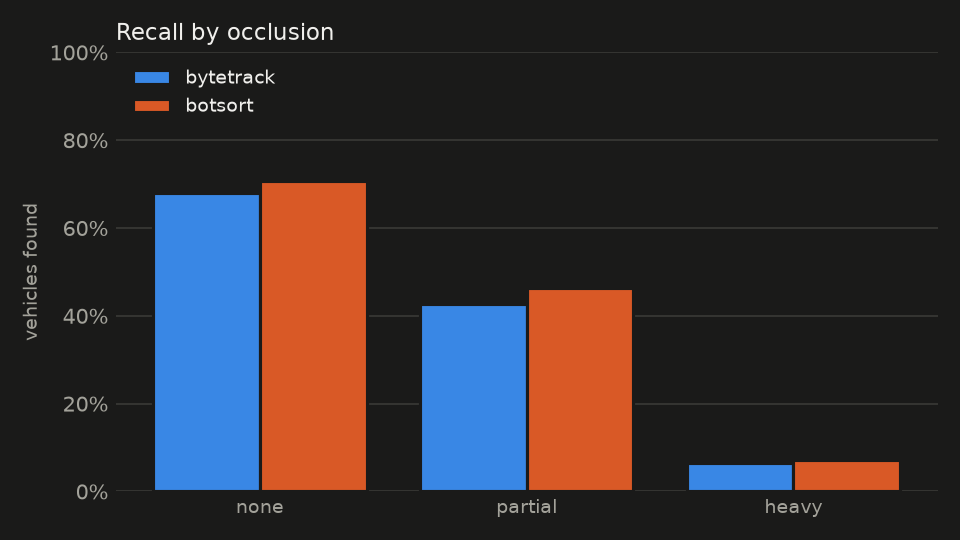
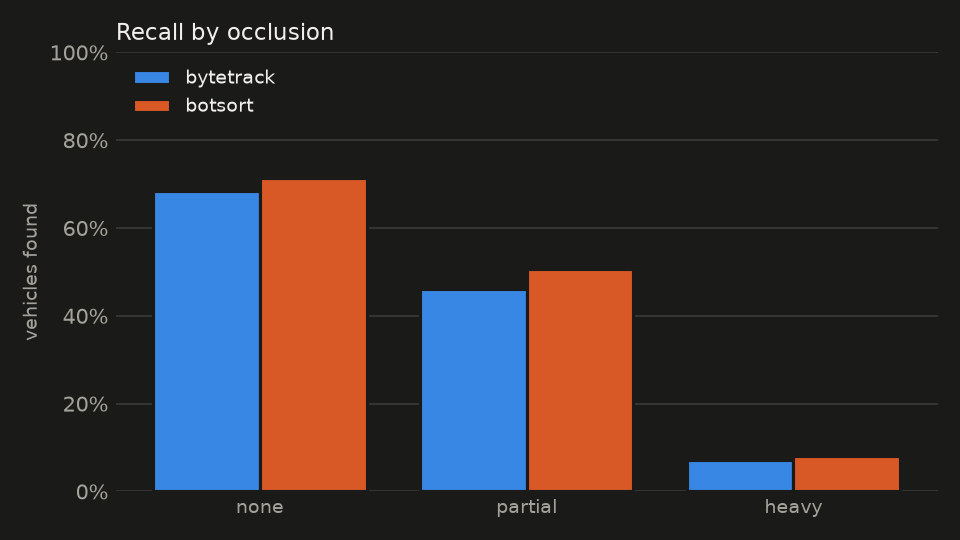
Use detector threshold 0.1 so trackers get low-confidence boxes
run_tracking.py passed conf=0.25 to the detector, which overrides the
Ultralytics tracking default of 0.1. ByteTrack and BoT-SORT both match
boxes between 0.1 and 0.25 in a second step to recover vehicles, so
those boxes were lost before tracking. All runs, charts and README
numbers are updated.

diff --git a/run_tracking.py b/run_tracking.py
@@ -97,7 +97,11 @@ def main() -> None:
     parser.add_argument("--model", default="yolo11s.pt", help="Any ultralytics detection model, downloaded automatically")
     parser.add_argument("--tracker", default="bytetrack.yaml", help="bytetrack.yaml or botsort.yaml")
     parser.add_argument("--imgsz", type=int, default=1280, help="Inference size; drone footage has small objects, so larger helps")
-    parser.add_argument("--conf", type=float, default=0.25)
+    # Keep this at or below track_low_thresh (0.1) in the tracker config. Both trackers match
+    # low-confidence boxes in a second step to recover vehicles; a higher detector threshold
+    # would discard those boxes before the tracker ever sees them. New tracks still need
+    # new_track_thresh (0.25), so this does not flood the output with weak tracks.
+    parser.add_argument("--conf", type=float, default=0.1, help="Detector confidence threshold")
     parser.add_argument("--device", default="auto", help="auto, mps, cpu or a CUDA index")
     parser.add_argument("--max-frames", type=int, default=0, help="Limit frames per sequence for quick tests (0 = all)")
     parser.add_argument("--save-video", action="store_true")

diff --git a/README.md b/README.md
@@ -103,13 +103,15 @@ analyze_errors.py    error breakdown and charts
 ## Results
 
 Baseline: YOLO11s pretrained on COCO, input size 1280, default tracker settings of Ultralytics.
+The detector threshold is 0.1, so the trackers also get the low-confidence boxes they use to
+recover vehicles. New tracks still need a confidence of 0.25.
 Evaluated on the six VisDrone2019-MOT validation sequences that contain vehicles
 (uav0000086_00000_v has none and is skipped), about 40,000 vehicle boxes in total.
 
 | Tracker | HOTA | DetA | AssA | MOTA | IDF1 | ID switches | FP | FN |
 |---|---|---|---|---|---|---|---|---|
-| ByteTrack | 44.9 | 36.4 | 56.7 | 37.1 | 52.0 | 423 | 4,759 | 20,145 |
-| BoT-SORT | **50.8** | **38.6** | **67.9** | **39.0** | **60.5** | **233** | 5,377 | **18,955** |
+| ByteTrack | 45.1 | 36.8 | 56.9 | 36.0 | 52.6 | 360 | **6,037** | 19,375 |
+| BoT-SORT | **50.8** | **38.8** | **67.8** | **37.2** | **60.6** | **161** | 7,174 | **17,957** |
 
 ### How the evaluation treats VisDrone
 
@@ -123,7 +125,7 @@ as in the official VisDrone toolkit.
 ### BoT-SORT keeps identities when the drone moves
 
 Both trackers get the same detections, so detection accuracy (DetA) is almost equal.
-The gap is in association: BoT-SORT has 45% fewer ID switches. The reason shows up once
+The gap is in association: BoT-SORT has 55% fewer ID switches. The reason shows up once
 the switches are split by how much the whole image moves between frames.
 
 <picture>
@@ -132,7 +134,7 @@ the switches are split by how much the whole image moves between frames.
 </picture>
 
 With a still camera both trackers behave about the same. When the drone pans, ByteTrack
-loses track much more often (44 vs. 12.5 switches per 100 frames). Both trackers predict
+loses track much more often (43 vs. 11 switches per 100 frames). Both trackers predict
 each box with a constant velocity Kalman filter, but a panning camera moves every object in
 the image at once and the prediction lands next to the vehicle. BoT-SORT estimates this
 global motion with sparse optical flow and corrects its predictions, ByteTrack does not.
@@ -140,7 +142,7 @@ global motion with sparse optical flow and corrects its predictions, ByteTrack d
 ### The detector is the bottleneck
 
 Almost half of all vehicles are never detected. When YOLO does fire it is mostly right
-(precision around 80%), so the problem is recall.
+(precision around 75%), so the problem is recall.
 
 <picture>
   <source media="(prefers-color-scheme: dark)" srcset="docs/figures/recall_by_size_dark.png">
@@ -148,10 +150,10 @@ Almost half of all vehicles are never detected. When YOLO does fire it is mostly
 </picture>
 
 Size matters most. Vehicles smaller than 24 px at inference size make up 27% of the
-ground truth, and fewer than one in four of them is found. In the 4K sequence
+ground truth, and fewer than one in five of them is found. In the 4K sequence
 uav0000268_05773_v the image is shrunk by a factor of three before detection, and recall
-drops to 25%. Occlusion has a similar effect: 71% of fully visible vehicles are found,
-46% of partly occluded ones and only 7% of heavily occluded ones.
+drops to 27%. Occlusion has a similar effect: 71% of fully visible vehicles are found,
+51% of partly occluded ones and only 8% of heavily occluded ones.
 
 <picture>
   <source media="(prefers-color-scheme: dark)" srcset="docs/figures/recall_by_occlusion_dark.png">
@@ -175,13 +177,13 @@ per object.
 
 | Input size | HOTA | DetA | AssA | MOTA | IDF1 | ID switches | FP | FN | FPS |
 |---|---|---|---|---|---|---|---|---|---|
-| 1280 | 50.8 | 38.6 | **67.9** | **39.0** | 60.5 | **233** | **5,377** | 18,955 | 11 to 28 |
-| 1920 | **51.6** | **40.9** | 66.5 | 38.2 | **62.3** | 257 | 8,668 | **15,959** | 12 to 15 |
+| 1280 | 50.8 | 38.8 | **67.8** | **37.2** | 60.6 | **161** | **7,174** | 17,957 | 11 to 28 |
+| 1920 | **51.1** | **40.8** | 65.7 | 34.9 | **60.9** | 225 | 10,908 | **15,075** | 12 to 15 |
 
-Recall for vehicles under 16 px (measured at 1280) jumps from 5% to 35%, and recall in the
-4K sequence rises from 25% to 39%. But the detector also produces 60% more false positives,
-so MOTA even drops a little and HOTA only gains 0.8 points. The top-down sequence
-uav0000305_00000_v does not improve at all (18% to 16%), which supports the idea that the
+Recall for vehicles under 16 px (measured at 1280) jumps from 7% to 44%, and recall in the
+4K sequence rises from 27% to 42%. But the detector also produces 52% more false positives,
+so MOTA drops by more than two points and HOTA only gains 0.3 points. The top-down sequence
+uav0000305_00000_v does not improve at all (18% to 17%), which supports the idea that the
 problem there is the viewpoint and not the object size.
 
 These findings point to the next step: fine-tuning on drone images.
